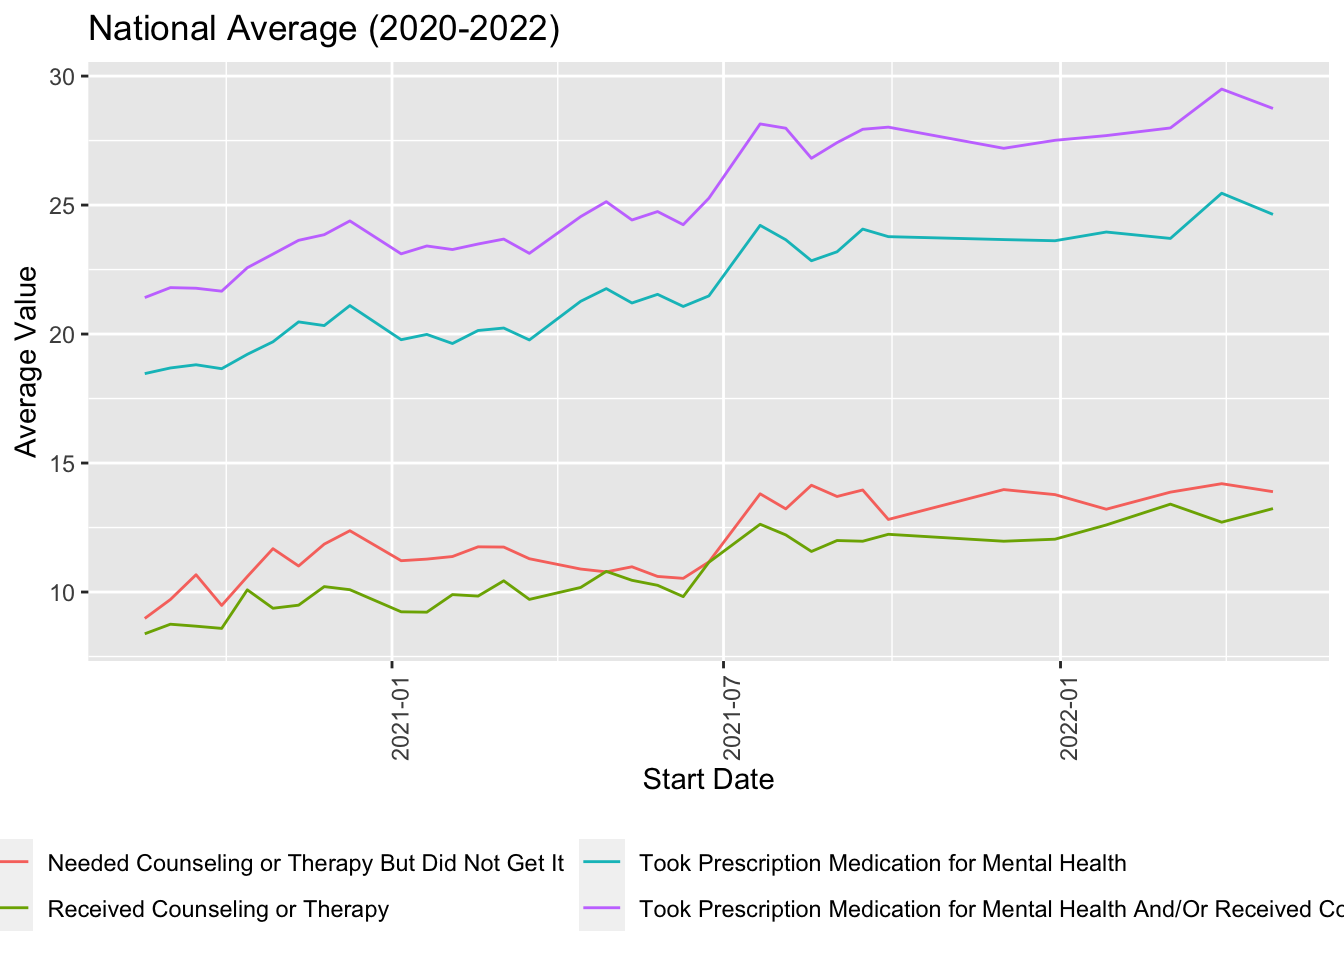
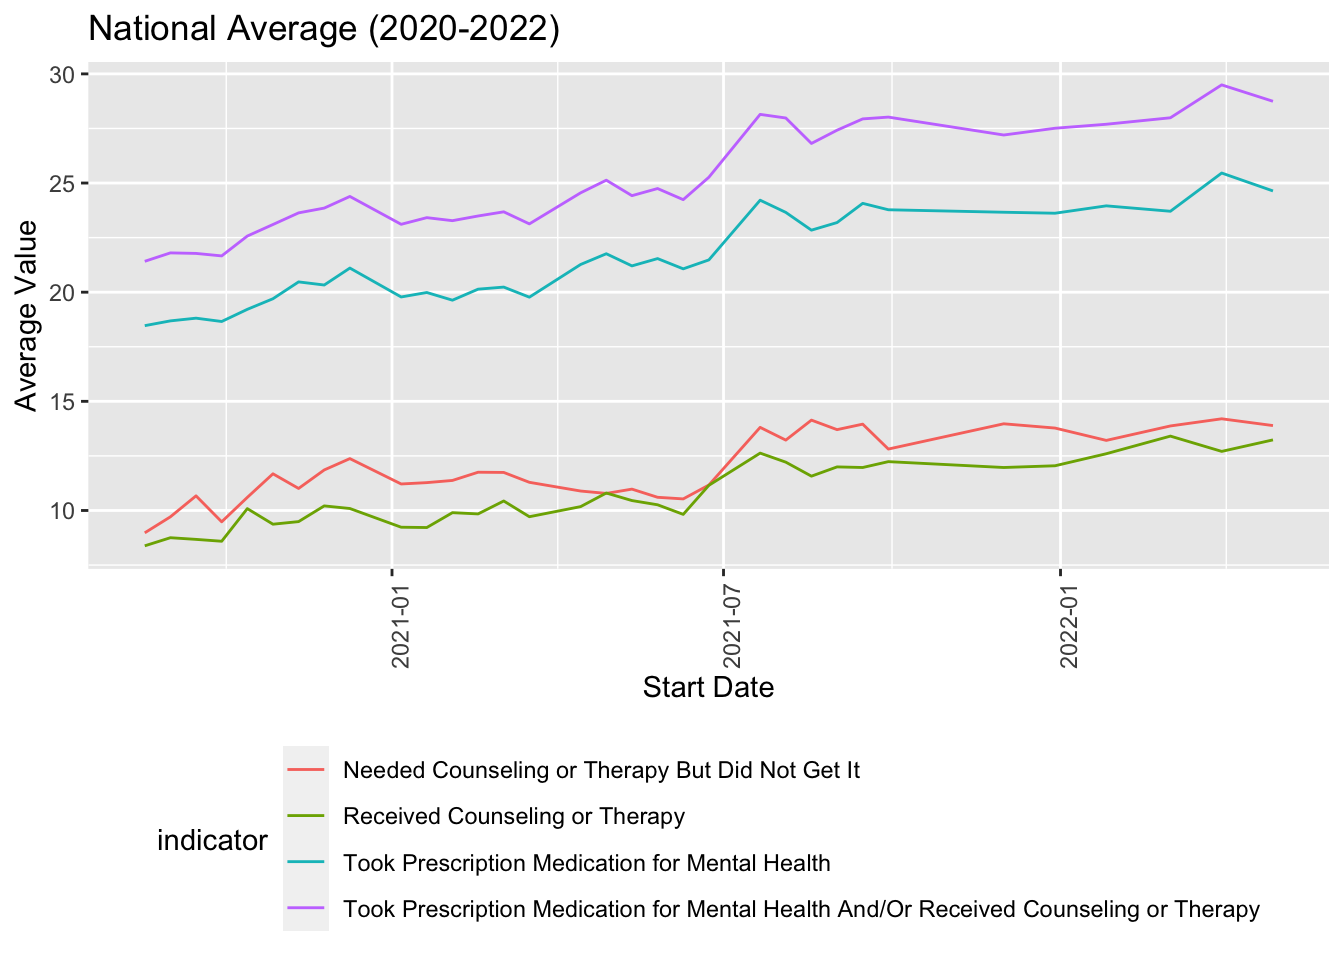
Updated labs for boxplot and commented on plot trends

diff --git a/EDA_AR.html b/EDA_AR.html
@@ -413,7 +413,7 @@ avg_year |&gt;
     legend.position = &quot;bottom&quot;,
     axis.text.x = element_text(angle=90, hjust=1),
     strip.text = element_text(size = 4)) +
-  guides(color = guide_legend(nrow = 2))</code></pre>
+  guides(color = guide_legend(nrow = 4))</code></pre>
 <p><img src="EDA_AR_files/figure-html/unnamed-chunk-3-1.png" width="672" /></p>
 <p>On average, those who took prescription medication for mental health
 and/or received counseling or therapy had a highest values while those
@@ -515,8 +515,17 @@ proportion of mental health services not received in each state.</p>
   ggplot(aes(x = state, y = estimate)) + 
   geom_point() + 
   geom_errorbar(aes(ymin = conf.low, ymax = conf.high)) + 
-  theme(axis.text.x = element_text(angle = 90, hjust = 1))</code></pre>
+  theme(axis.text.x = element_text(angle = 90, hjust = 1)) +
+  labs(
+    x = &quot;State&quot;,
+    y = &quot;Estimate&quot;,
+    title = &quot;Proportion of Mental Health Services Not Received by States&quot;
+  )</code></pre>
 <p><img src="EDA_AR_files/figure-html/unnamed-chunk-8-1.png" width="672" /></p>
+<p>The majority of states have a similar estimate of proportion of
+mental health services not received in each states. Vermont, Wyoming,
+Hawaii, and North Dakota had distinct estimates, with a lower estimate
+compared to the remaining states. Vermont had the lowest estimate.</p>
 </div>
 
 
